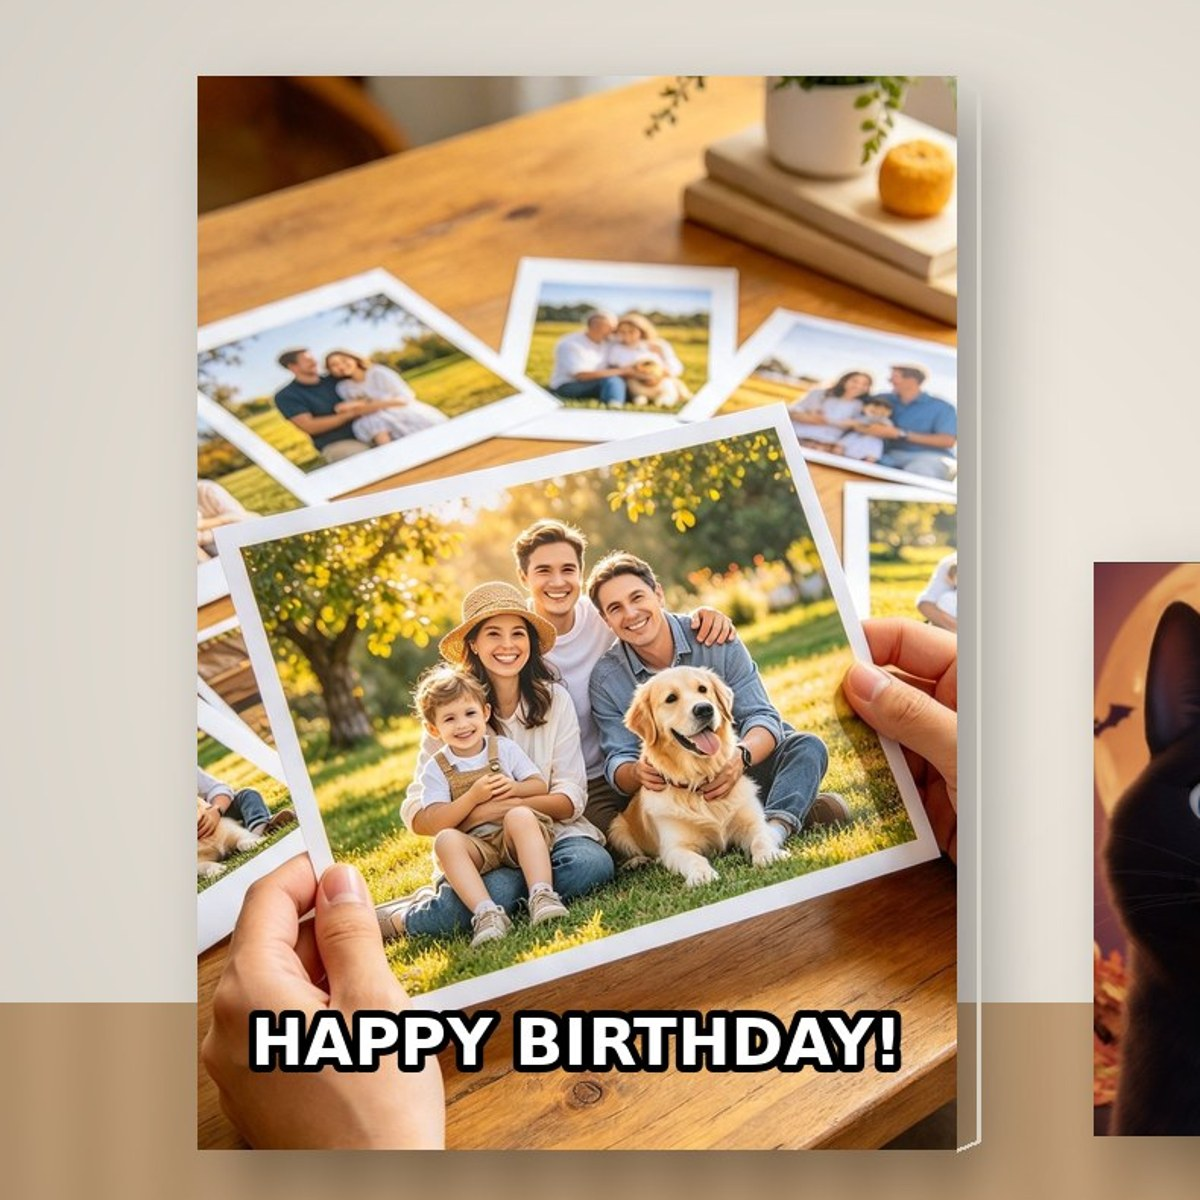
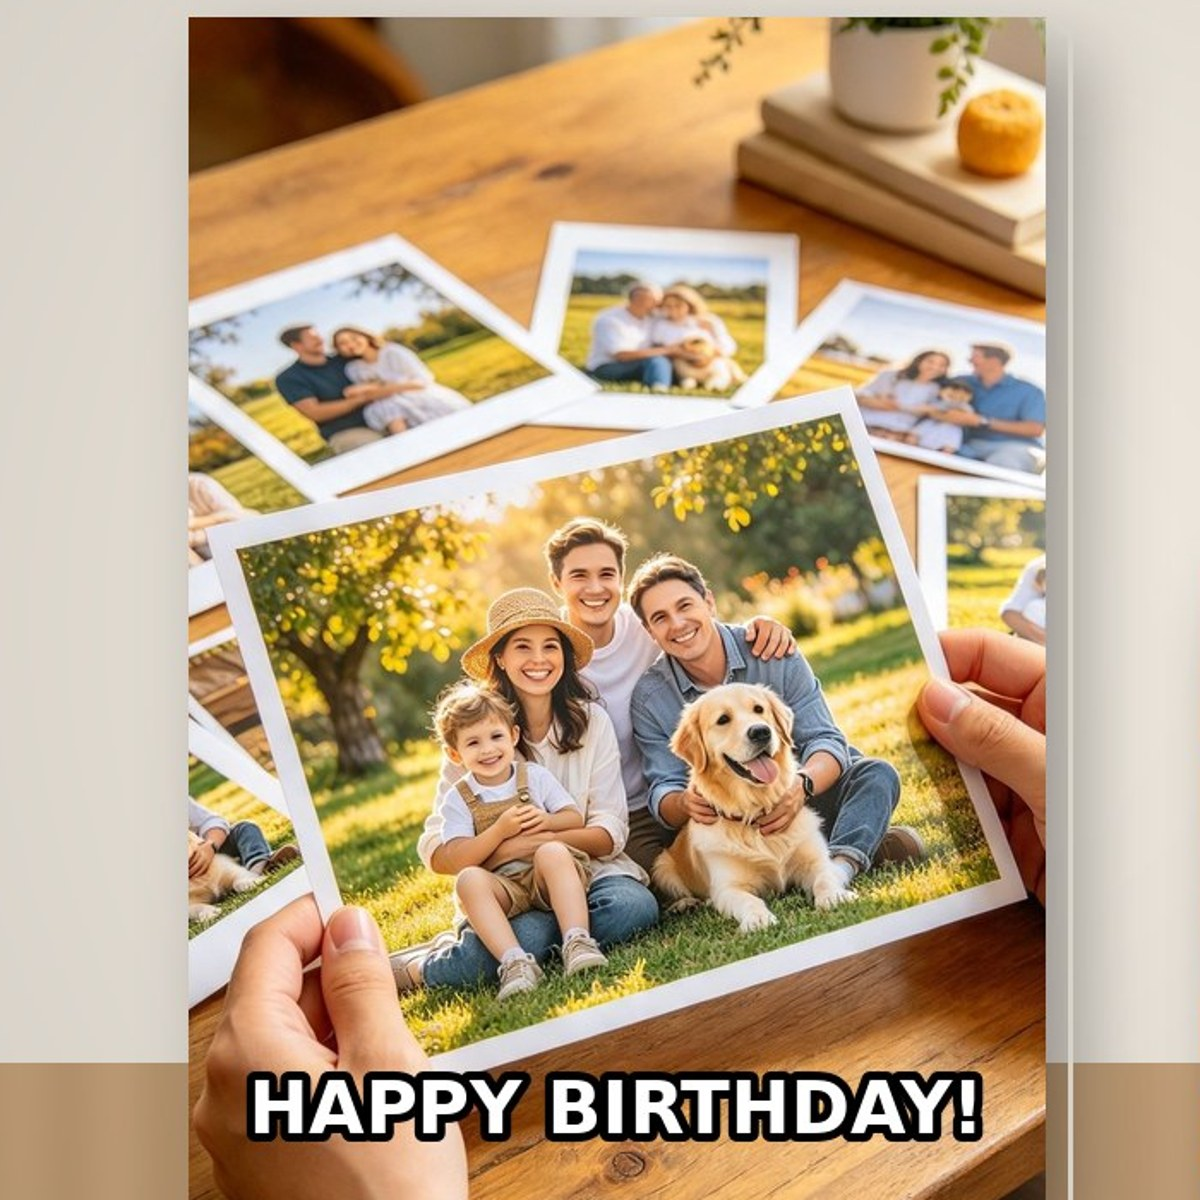
Cleaner birthday card image
Claude-Session: https://claude.ai/code/session_01HbW6DW9iCZ4LUUMQkhEPyg

diff --git a/playing-cards.html b/playing-cards.html
@@ -9,7 +9,7 @@
 <link rel="canonical" href="https://onjjem.com/playing-cards">
 <meta property="og:title" content="Personalised Photo Playing Cards | ONJJEM">
 <meta property="og:description" content="Your family, pet or cartoon printed on the back of a full deck of 54 playing cards. £15.99 with free UK delivery.">
-<meta property="og:image" content="https://onjjem.com/playing-cards-hero.jpg?v=9">
+<meta property="og:image" content="https://onjjem.com/playing-cards-hero.jpg?v=10">
 <script async src="https://www.googletagmanager.com/gtag/js?id=G-3L30Q5L3MW"></script>
 <script>
   window.dataLayer = window.dataLayer || [];
@@ -33,7 +33,7 @@ window.PAGE = {
   kicker: "Games night, made personal",
   title: "Your photo on the back of a deck of playing cards",
   sub: "A full deck of 54 classic playing cards with your photo, your pet or a cartoon of the family printed on the back of every card. A brilliant stocking filler and a gift they'll actually use at every games night.",
-  heroImg: "/playing-cards-hero.jpg?v=9",
+  heroImg: "/playing-cards-hero.jpg?v=10",
   heroAlt: "Personalised playing cards with family photos",
   ticks: [
     "Your picture on the back of every card",

diff --git a/cards.html b/cards.html
@@ -9,7 +9,7 @@
 <link rel="canonical" href="https://onjjem.com/cards">
 <meta property="og:title" content="Personalised Photo Greeting Cards &amp; Giant Cards | ONJJEM">
 <meta property="og:description" content="Your photo or cartoon on a greeting card, with your words on the front. Giant A4 cards £9.99, 7×5 cards £5.99. Free UK delivery.">
-<meta property="og:image" content="https://onjjem.com/cards-hero.jpg?v=9">
+<meta property="og:image" content="https://onjjem.com/cards-hero.jpg?v=10">
 <script async src="https://www.googletagmanager.com/gtag/js?id=G-3L30Q5L3MW"></script>
 <script>
   window.dataLayer = window.dataLayer || [];
@@ -33,7 +33,7 @@ window.PAGE = {
   kicker: "New · Personalised cards",
   title: "Their face on a GIANT birthday card",
   sub: "Your photo, your pet or a free cartoon on the front of a greeting card, with your own words. Our giant A4 card is the one everybody laughs at, keeps and stands on the shelf.",
-  heroImg: "/cards-hero.jpg?v=9",
+  heroImg: "/cards-hero.jpg?v=10",
   heroAlt: "Giant personalised greeting card with a family photo",
   ticks: [
     "Your photo or cartoon on the front, with your own words",

diff --git a/giveaway.html b/giveaway.html
@@ -95,7 +95,7 @@
     <a href="/mug"><img src="/magic-mug-cat.jpg?v=9" alt="Personalised photo mug" loading="lazy"><span>Photo mugs</span></a>
     <a href="/cushions"><img src="/cushion-mockup.jpg" alt="Personalised photo cushion" loading="lazy"><span>Cushions</span></a>
     <a href="/christmas"><img src="/christmas-hero.jpg" alt="Personalised Christmas photo gifts" loading="lazy"><span>Christmas gifts</span></a>
-    <a href="/playing-cards"><img src="/playing-cards-hero.jpg?v=9" alt="Personalised photo playing cards" loading="lazy"><span>Playing cards</span></a>
+    <a href="/playing-cards"><img src="/playing-cards-hero.jpg?v=10" alt="Personalised photo playing cards" loading="lazy"><span>Playing cards</span></a>
   </div>
   <a class="btn go" href="/">Shop all gifts at onjjem.com →</a>
   <a class="btn try" href="/cartoon">See my photo as a cartoon FREE ✨</a>
